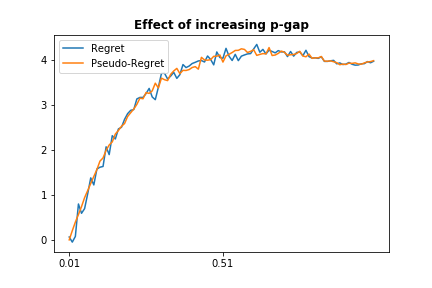
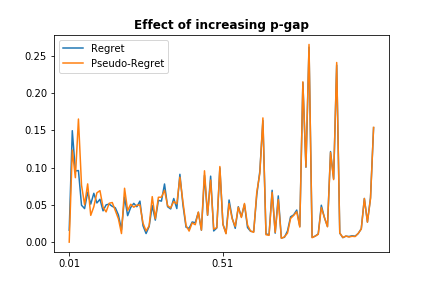
Various Changes
-Ahead of meeting
-Debuging
-Refactoring
-Results

diff --git a/experiments_stochastic_bandits.py b/experiments_stochastic_bandits.py
@@ -37,7 +37,7 @@ def plot_list(l, title="", xlabel="", ylabel="", labels="",
 
 #Experiments
 #number of reps
-reps = 300
+reps = 40
 
 ###Two arm bandit
 
@@ -48,6 +48,7 @@ env1 = env(bandit, ucb_forecaster())
 #env = env(bandit, random_forecaster)
 
 env1.play_round(rounds=12)
+env1.forecaster.return_theoretic_bound([0.2,0.7], 12)
 
 def export_result_sb(env, file):
     dictionary = {"Player rewards": env.forecaster_rewards,
@@ -56,10 +57,10 @@ def export_result_sb(env, file):
     true_rewards = pd.DataFrame(env.true_rewards,
                                 columns = [
                                 "True Reward Arm "+str(i) for i in range(0,env.bandit.K)])
-    mu_hat = pd.DataFrame(env.mu_hat,
+    mu_hat = pd.DataFrame(env.forecaster.mu_hat_list,
                           columns = [
                           "Mu Hat Arm "+str(i) for i in range(0,env.bandit.K)])
-    psi_s_inverse = pd.DataFrame(env.psi_s_inverse,
+    psi_s_inverse = pd.DataFrame(env.forecaster.p_s_i_list,
                                  columns = [
                                  "P.S.I "+str(i) for i in range(0,env.bandit.K)])
     experiment_data = pd.concat([experiment_data,
@@ -74,18 +75,23 @@ res = export_result_sb(env1, file="results_stochastic_bandit/Bernoulli_Experimen
 
 
 #Many runs development of regret and pseudo_regret
-def increase_T(max_T, env, reps=reps):
-    regret = np.zeros(max_T)
-    pseudo_regret = np.zeros(max_T)
-    for T in range(1, max_T+1):
-        env.play_many_rounds(T, reps, True)
-        pseudo_regret[T-1]=env.mean_pseudo_regret/T
-        regret[T-1]=env.get_regret()/T
+def increase_T(max_T, env, reps=reps, step=1, theory_bound=False):
+    regret = []
+    pseudo_regret = []
+    if theory_bound: bounds = []
+    for T in range(1, max_T+1, step):
+        env.play_many_rounds(rounds=T, repetitions=reps, log_pseudo_regret=True)
+        pseudo_regret.append(env.mean_pseudo_regret/T)
+        regret.append(env.get_regret()/T)
+        print(T)
+        if theory_bound: bounds.append(
+                env.forecaster.return_theoretic_bound(env.bandit.expected_values, T)/T)
+    if theory_bound: return(regret, pseudo_regret, bounds)
     return(regret, pseudo_regret)
     
-regret, pseudo_regret = increase_T(100, env1)
+#regret, pseudo_regret = increase_T(100, env1, 5)
         
-plot_list(increase_T(100, env1), 
+plot_list(increase_T(max_T = 100, env=env1, step=1), 
           title="(Pseudo-) Regret per Timestep for increasing \n Number of Rounds",
           ylabel="Values",
           xlabel="Timesteps",
@@ -162,15 +168,31 @@ plt.savefig(folder+"Increase_p_gap_2class.png")
 arms_vaccines = [bernoulli(0.99), bernoulli(0.9945), bernoulli(0.995)]
 bandit_vac = stochastic_bandit(arms=arms_vaccines, 
                                expected_values=[0.99, 0.9945, 0.995])
-env_vac = env(bandit_vac, ucb_forecaster(alpha=0.3)) 
+env_vac = env(bandit_vac, ucb_forecaster(alpha=2.1)) 
 
-env_vac.play_many_rounds(rounds=1000, repetitions=10000, log_pseudo_regret=True)
+env_vac.play_many_rounds(rounds=100000, repetitions=100, log_pseudo_regret=True)
 
-env_vac.play_round(300000)
-#Regret 256
+env_vac.play_round(5700000)
+#Regret: 2629
+#Pseudo-Regret: 2730.454
 
 #Test Against random forecaster
 env_vac_rand = env(bandit_vac, random_forecaster())
-env_vac_rand.play_round(300000)
-#Regret 615
+env_vac_rand.play_round(5700000)
+#Regret: 10260
+#Pseudo_regret: 10449.534
+
+#Increase T:
+incr_T_vac = increase_T(100000, env_vac, reps=30, step=1000, theory_bound=True)
+
+
+plot_list(incr_T_vac,
+          title="Development of theoretical bound over time steps \n in Comparison with real (Pseudo-) Regret",
+          labels=["Regret", "Pseudo-Regret", "Theoretical Bound"],
+          axis_data=np.arange(0, 100000, step=20000),
+          xlabel="Environment Steps",
+          ylabel="(Pseudo-) Regret per time-step")
+
+#plt.savefig(folder+"Increase_T_Vaccinations_bound.png")
+
 

diff --git a/stochastic_bandit.py b/stochastic_bandit.py
@@ -15,9 +15,6 @@ class simulation_environment():
     def __init__(self, bandit, forecaster):
         self.bandit = bandit
         self.forecaster = forecaster
-        self.forecaster_rewards = np.empty(1)
-        self.true_rewards = np.empty(1)
-        self.actions = np.empty(1)
         
     def reset_values(self, rounds):
         self.forecaster_rewards = np.zeros(rounds)
@@ -41,7 +38,7 @@ class simulation_environment():
                     rewards=forecaster_rewards[0:t],
                     actions=self.actions[0:t])
             self.actions[t] = action
-            forecaster_rewards[t]+=true_rewards[t,action]
+            forecaster_rewards[t]=true_rewards[t,action]
         self.true_rewards += np.multiply(true_rewards, factor)
         self.forecaster_rewards += np.multiply(forecaster_rewards, factor)
             #log calculations
@@ -144,7 +141,6 @@ class ucb_forecaster():
         self.alpha=alpha
         
     def reset_rounds(self, rounds, K, reps):
-        self.t = 0
         self.mean_reward_list = np.zeros(K, dtype=np.float64)
         self.action_counter_list = np.zeros(K, dtype=int)
         self.rounds=rounds
@@ -169,7 +165,7 @@ class ucb_forecaster():
             n_pulled = self.action_counter_list[i]
             #Updating mean by formula: mean = factor1*prev_mean + factor2*reward
             if(action==i):
-                prev_mean = self.mean_reward_list[i].copy()
+                prev_mean = self.mean_reward_list[i]
                 factor1 = ((n_pulled-1)/(n_pulled))
                 factor2 = (1/n_pulled)
                 self.mean_reward_list[i] = np.add(np.multiply(factor1, prev_mean),
@@ -192,6 +188,18 @@ class ucb_forecaster():
         self.mu_hat_list[t-1]+=np.multiply(self.mean_reward_list, (1/self.reps))
         self.p_s_i_list[t-1]+=np.multiply(p_s_i_list, (1/self.reps))
         return(maximum)
+        
+    #Bernoulli only!!!
+    def return_theoretic_bound(self, expected_values, n):
+        mu_star = max(expected_values)
+        delta_i_list = np.array([mu_star-e_value for e_value in expected_values])
+        delta_i_list = delta_i_list[np.where(delta_i_list>0)[0]]
+        bound = 0.0
+        for delta_i in delta_i_list:
+            sum1 = np.multiply(np.divide(2*self.alpha, delta_i), np.log(n))
+            sum2 = np.divide(self.alpha, np.subtract(self.alpha, 2))
+            bound += sum1+sum2
+        return(bound)
         
     
 
